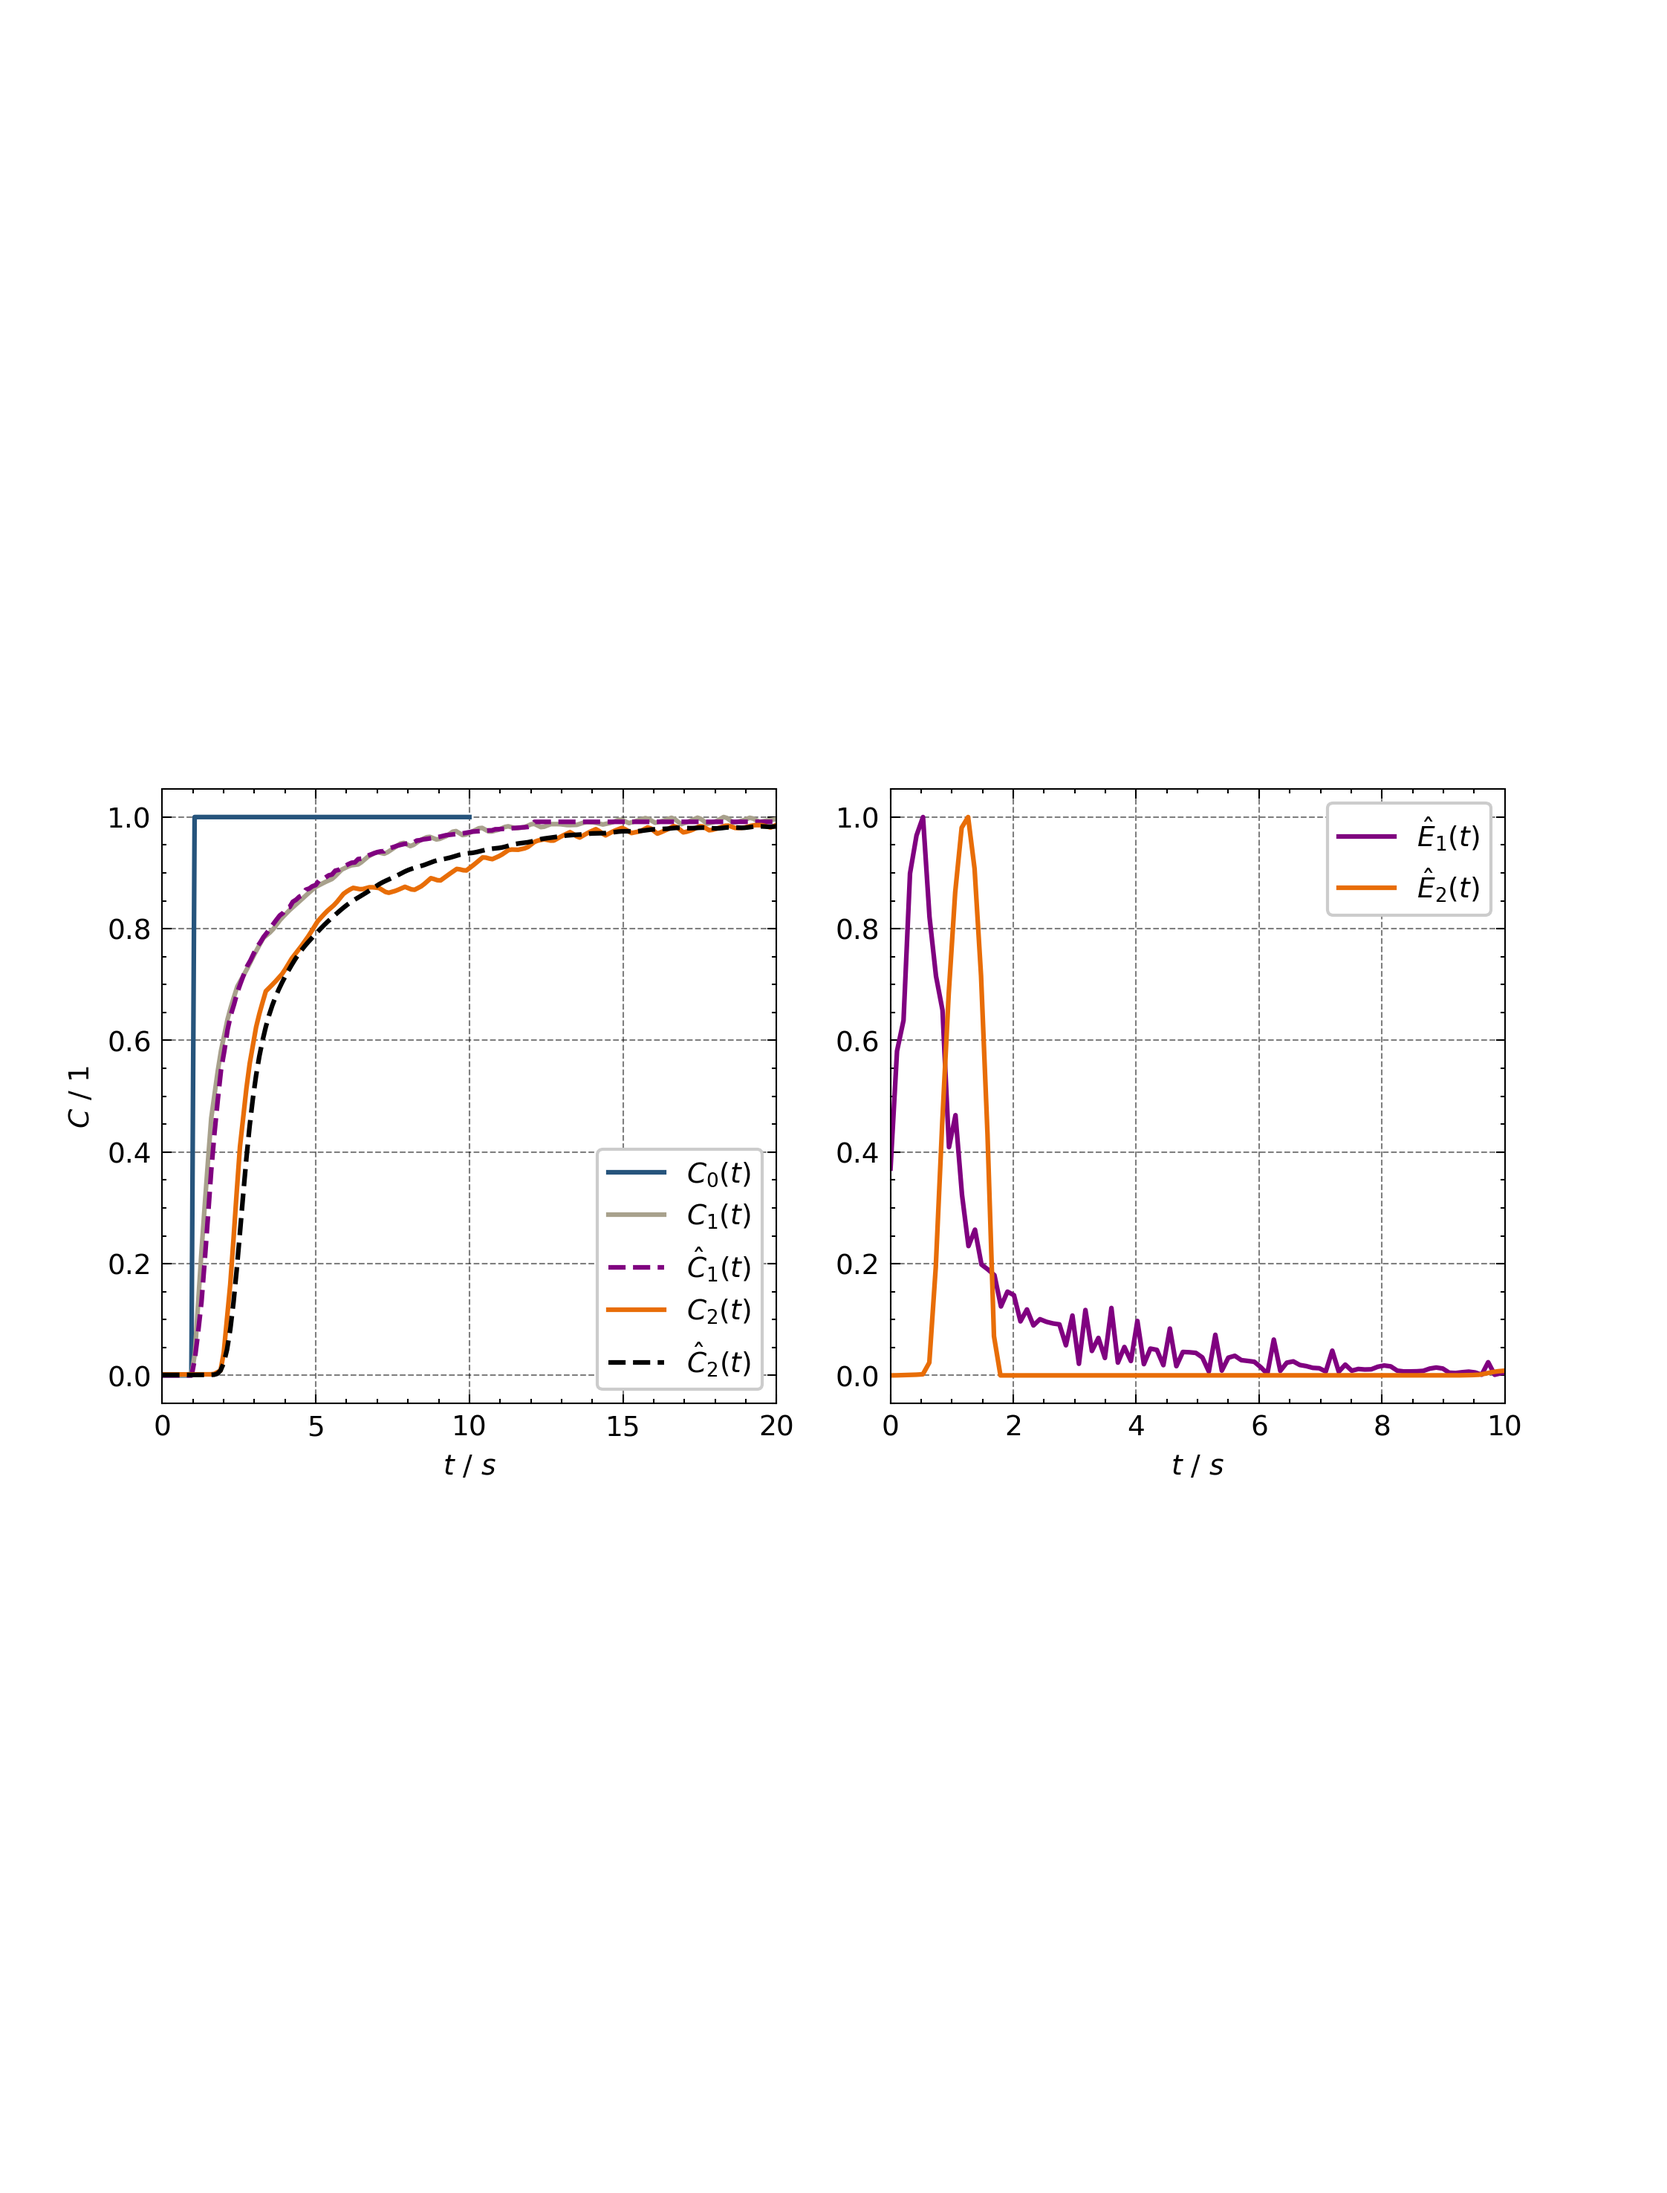
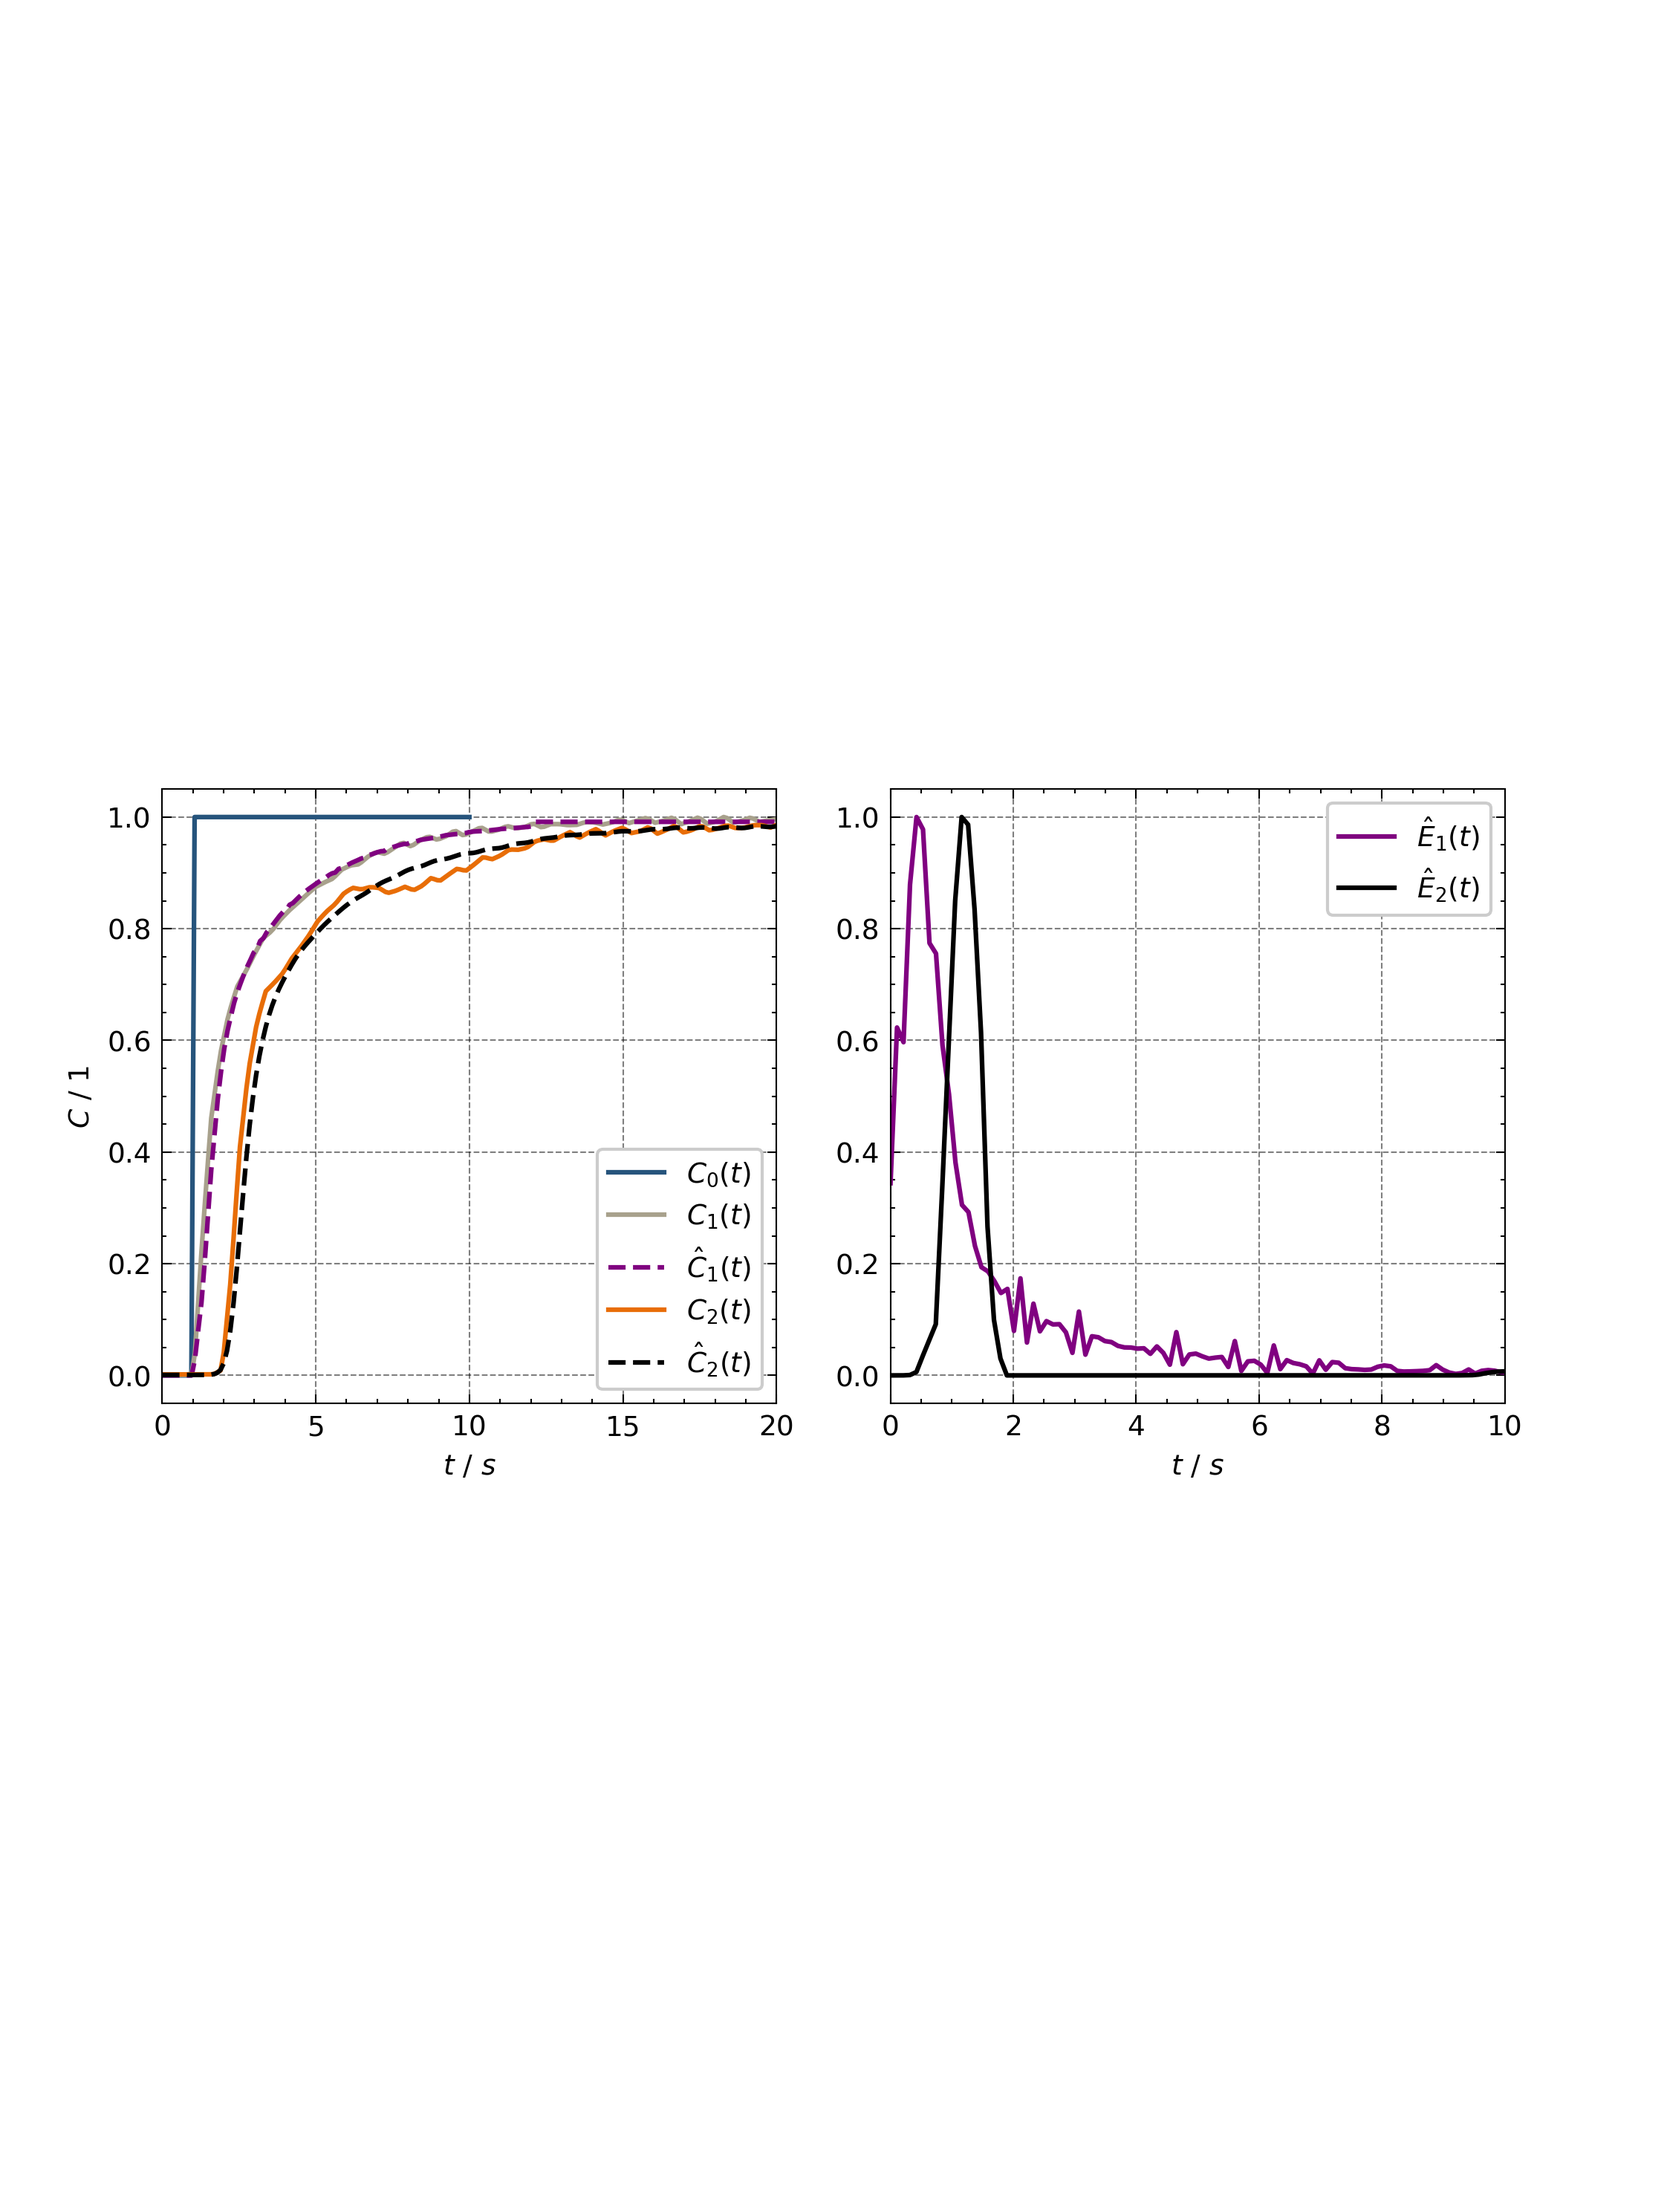
plots

diff --git a/Experiments/Preliminary/2_nd_Layer_exp/0001/H_185/Convolution_script_exp_185.py b/Experiments/Preliminary/2_nd_Layer_exp/0001/H_185/Convolution_script_exp_185.py
@@ -2,7 +2,6 @@ import matplotlib.pyplot as plt
 import numpy.typing as npt
 import sys
 import os
-
 module_path = r"D:\Tuana\nRTD\lib"
 sys.path.append(module_path)
 import torch
@@ -24,8 +23,9 @@ from ICIW_Plots import make_square_ax, cm2inch
 if wandb.run is not None:
     wandb.finish()
     
-#save_dir=r"D:\Tuana\nRTD\Experiments\Preliminary\2_nd_Layer_exp\0001\H_185"
+save_dir=r"D:\Tuana\nRTD\Experiments\Preliminary\2_nd_Layer_exp\0001\H_185"
 learning_rate=1e-3
+learning_rate_2=1e-1
 n_in_1, n_out_1, n_out_2, n_e_1, n_e_2 = sp.symbols("n_in_1 n_out_1 n_out_2 n_e_1 n_e_2", positive=True, real=True)
 t_1, t_lam, t_adl, t_e_1, t_e_2 = sp.symbols("t_1, t_lam, t_adl, t_e_1, t_e_2", positive=True, real=True)
 equations = [
@@ -109,20 +109,22 @@ print("t_e_2 =", t_e_2)
 c_conv_results = {}
 n_disc = n_in_1
 t_input = torch.linspace(0, t_1, n_1_in)
-c_in = torch.zeros((20, 1, n_1_in))
-c_in[::2, :, t_input > 1] = 0.025
-c_in[1::2, :, t_input < 1] = 0.025
-file_numbers = range(1, 21)
+c_in = torch.zeros((18, 1, n_1_in))
+c_in[::2, :, t_input > 1] =1
+c_in[1::2, :, t_input < 1] =1
 c_out_list = []
 t_conv_list = []
+file_numbers = range(1, 21)
+excluded_files = {19,20}
+filtered_file_numbers = [num for num in file_numbers if num not in excluded_files]
 
 
-for i, file_num in enumerate(file_numbers):
+for i, file_num in enumerate(filtered_file_numbers):
     #t_conv_path = f"/Users/tuanaoyuncu/Documents/GitHub/nRTD/Data/0001/C_001/H_185_C1/S_007_C1_001/TOA_MGA_20231013_007_{file_num:06d}_t_processed.npy"
     #c_out_path = f"/Users/tuanaoyuncu/Documents/GitHub/nRTD/Data/0001/C_001/H_185_C1/S_007_C1_001/TOA_MGA_20231013_007_{file_num:06d}_x_processed.npy"
-    t_conv_path= r"D:\Tuana\nRTD\Data\0001\C_001\H_185_C1\S_007_C1_001\TOA_MGA_20231013_007_{file_num:06d}_t_processed.npy"
-    c_out_path =r"D:\Tuana\nRT\Data\0001\C_001\H_185_C1\S_007_C1_001\TOA_MGA_20231013_007_{file_num:06d}_x_processed.npy"
-    
+    t_conv_path= rf"D:\Tuana\nRTD\Data\0001\C_001\H_185_C1\S_007_C1\TOA_MGA_20231013_007_{file_num:06d}_t_processed_norm_1.npy"
+    c_out_path = rf"D:\Tuana\nRTD\Data\0001\C_001\H_185_C1\S_007_C1\TOA_MGA_20231013_007_{file_num:06d}_x_processed_norm_1.npy"
+
     print(f"Processing files: {t_conv_path}, {c_out_path}")
 
     t_conv = (
@@ -174,8 +176,6 @@ plt.plot(
 )
 plt.plot(t_E, E, label="E", color="orange")
 plt.legend()
-plt.xlim((0, 10))
-plt.ylim((0, 0.2))
 plt.show()
 
 print(model(c_in).size())
@@ -188,7 +188,7 @@ wandb_logger = pl_loggers.WandbLogger(
 
 trainer = pl.Trainer(
     accelerator="auto",
-    max_epochs=20000,
+    max_epochs=8000,
     logger=wandb_logger, deterministic=True
 )
 trainer.fit(model, dl)
@@ -237,11 +237,11 @@ t_2_in=torch.tensor(t_conv).float()
 c_2_in=torch.tensor(c_out).float()
 print("c_in",c_out.shape)
 
-for i, file_num in enumerate(file_numbers):
-    t_conv_path_2 = f"/Users/tuanaoyuncu/Documents/GitHub/nRTD/Data/0001/C_002/H_185_C2/S_014_C2/TOA_MGA_20231020_014_{file_num:06d}_t_processed.npy"
-    c_out_path_2 = f"/Users/tuanaoyuncu/Documents/GitHub/nRTD/Data/0001/C_002/H_185_C2/S_014_C2/TOA_MGA_20231020_014_{file_num:06d}_x_processed.npy"
-    # t_conv_path_2= r"D:\Tuana\nRTD\Experiments\Data\0001\C_002\H_185_C2\S_014_C2\TOA_MGA_20231020_014_{file_num:06d}_t_processed.npy"
-    # c_out_path_2 =r"D:\Tuana\nRTD\Experiments\Data\0001\C_002\H_185_C2\S_014_C2\TOA_MGA_20231020_014_{file_num:06d}_x_processed.npy"
+for i, file_num in enumerate(filtered_file_numbers):
+    #t_conv_path_2 = f"/Users/tuanaoyuncu/Documents/GitHub/nRTD/Data/0001/C_002/H_185_C2/S_014_C2/TOA_MGA_20231020_014_{file_num:06d}_t_processed.npy"
+    #c_out_path_2 = f"/Users/tuanaoyuncu/Documents/GitHub/nRTD/Data/0001/C_002/H_185_C2/S_014_C2/TOA_MGA_20231020_014_{file_num:06d}_x_processed.npy"
+    t_conv_path_2= rf"D:\Tuana\nRTD\Data\0001\C_002\H_185_C2\S_014_C2\TOA_MGA_20231020_014_{file_num:06d}_t_processed_norm.npy"
+    c_out_path_2 =rf"D:\Tuana\nRTD\Data\0001\C_002\H_185_C2\S_014_C2\TOA_MGA_20231020_014_{file_num:06d}_x_processed_norm.npy"
     
     print(f"Processing files: {t_conv_path_2}, {c_out_path_2}")
 
@@ -264,7 +264,7 @@ print(c_2_in.shape)
 model_2 = RTDModule(
     kernel_sizes=[n_e_2],
     kernel_times=[(0.0, t_e_2)],
-    learning_rate=learning_rate,
+    learning_rate=learning_rate_2,
     use_scheduler=True,
     scheduler_kwargs={"factor": 0.5, "patience": 80},
 )
@@ -276,7 +276,7 @@ dl_2 = DataLoader(ds_2, batch_size=1, shuffle=True)
 
 trainer = pl.Trainer(
     accelerator="auto",
-    max_epochs=100000,
+    max_epochs=30000,
     logger=wandb_logger,
     deterministic=True,
 )
@@ -325,6 +325,132 @@ current_date = datetime.datetime.now().strftime("%Y%m%d")
 #plt.savefig(os.path.join(save_dir,f"Figure_C_002_H_185_C2{current_date}.png"), dpi=300)
 current_date = datetime.datetime.now().strftime("%Y%m%d")
 #plt.savefig(os.path.join(save_dir,f"Figure_C_002_H_185_C2{current_date}.png"), dpi=300)
+plt.show()
+plt.show()
+
+E_learned_1 = model.net.E[0] if isinstance(model.net.E[0], np.ndarray) else model.net.E[0].numpy()
+E_learned_2 = model_2.net.E[0] if isinstance(model_2.net.E[0], np.ndarray) else model_2.net.E[0].numpy()
+t_learned_1 = np.linspace(0, t_e, len(E_learned_1))
+t_learned_2 = np.linspace(0, t_e_2, len(E_learned_2))
+base_dir = r'D:\Tuana\nRTD\Experiments\Preliminary\2_nd_Layer_exp'
+#base_dir="/Users/tuanaoyuncu/Documents/GitHub/nRTD/Experiments/Preliminary/2_nd_Layer_exp"
+plt.style.use("ICIWstyle")
+import ICIW_Plots.colors as ICIWcolors
+from ICIW_Plots.figures import Elsevier_Sizes
+import datetime
+import ICIW_Plots.colors as ICIWcolors
+from ICIW_Plots.figures import Elsevier_Sizes, ACS_Sizes
+from ICIW_Plots import make_square_ax, cm2inch
+from ICIW_Plots import make_rect_ax
+from ICIW_Plots import make_square_subplots
+fig = plt.figure( figsize=(Elsevier_Sizes.double_column["in"], 25 * cm2inch))  # Increased figure height for better spacing
+axs = make_square_subplots(
+    fig=fig,
+    ax_width=7 * cm2inch,#dimension of the plots
+    ax_layout=(1, 2),  
+    h_sep=1.3 * cm2inch,  
+    v_sep=1 * cm2inch, 
+    sharex=True,
+    sharey=True,
+    xlabel=[r"$t$ / $s$", r"$t$ / $s$"], 
+    ylabel=
+        [r"$C$ / $1$"
+    ])
+
+axs[0, 0].plot(t_input, c_in[0, 0, :].numpy(), label=r"$C_0(t)$", color=ICIWcolors.CERULEAN)
+
+for i in range(c_out.size(1)):
+    axs[0, 0].plot(
+    t_conv[4, i, :].numpy(),
+    c_out[4, i, :].numpy(),
+    label=r"$C_1(t)$",
+    color=ICIWcolors.DRAB,
+)
+
+# for i in range(c_out.size(1)):
+#     axs[0, 0].plot(
+#         t_conv_2[0, i, :].numpy(),
+#         c_out_2[0, i, :].numpy(),
+#         label=f"Exp_{file_numbers[i]}",
+#         color="green",
+#     )
+
+
+axs[0, 0].plot(
+    t_conv[0, 0, :].numpy(),
+    c_conv[0, 0, :].detach().numpy(),
+    label=r"$\hat{C}_1(t)$",
+   color="purple",
+    linestyle="--"
+)
+
+axs[0, 0].plot(
+    t_conv_2[4, i, :].numpy(),
+    c_out_2[4, i, :].detach().numpy(),
+    label=r"$C_2(t)$",
+   color=ICIWcolors.FLAME,
+)
+axs[0, 0].plot(
+    t_conv_2[0, 0, :].numpy(),
+    c_conv_2[0, 0, :].detach().numpy(),
+    label=r"$\hat{C}_2(t)$",
+   color="black",
+    linestyle="--"
+)
+
+axs[0, 1].plot(
+    t_learned_1,  # Ensure this is also 1D
+    E_learned_1/E_learned_1.max(), label=r"$\hat{E}_1(t)$", color="purple",
+)
+axs[0, 1].plot(
+    t_learned_2,  # Ensure this is also 1D
+    E_learned_2/E_learned_2.max(),label=r"$\hat{E}_2(t)$", color="black"
+)
+
+####
+axs[0, 0].set_xlim((0, 20)) 
+axs[0, 1].set_xlim((0, 10)) 
+axs[0, 0].legend(loc="best")
+axs[0, 1].legend(loc="best")
+plt.savefig(os.path.join(base_dir, f"Exp_2ndLAyer_185_rtd2.png"), dpi=300)
+plt.show()
+
+
+
+
+
+fig, ax1 = plt.subplots(1, 1, sharex=True, figsize=(10, 8))
+plt.plot(
+    t_conv[0, 0, :].numpy(),
+    c_conv[0, 0, :].detach().numpy(),
+    label="Input",
+    color="orange",
+)
+for i in range(c_out.size(1)):
+    plt.plot(
+        t_conv_2[0, i, :].numpy(),
+        c_out_2[0, i, :].numpy(),
+        label=f"Exp_{file_numbers[i]}",
+        color="green",
+    )
+
+plt.plot(
+    t_conv_2[0, 0, :].numpy(),
+    c_conv_2[0, 0, :].detach().numpy(),
+    label="Predicted_2",
+    color="red",
+)
+ax1.plot(t_E_2, E_2, label="E_predict", color="purple", linestyle="--")
+print(t_E_2.shape)
+print(E_2.shape)
+
+
+ax1.set_ylabel('Concentration')
+ax1.set_xlabel('Time')
+#current_date = datetime.datetime.now().strftime("%Y%m%d")
+#plt.savefig(os.path.join(save_dir,f"Figure_C_002_H_135_C2{current_date}.png"), dpi=300)
+#current_date = datetime.datetime.now().strftime("%Y%m%d")
+plt.savefig(os.path.join(save_dir,"Figure_C_002_H_185_C2.png"), dpi=300)
 plt.show()
 plt.show()
 

diff --git a/Experiments/Preliminary/2_nd_Layer_exp/0001/H_135/Convolution_script_exp_135.py b/Experiments/Preliminary/2_nd_Layer_exp/0001/H_135/Convolution_script_exp_135.py
@@ -238,8 +238,8 @@ print("c_in",c_out.shape)
 for i, file_num in enumerate(file_numbers):
     #t_conv_path_2 = f"/Users/tuanaoyuncu/Documents/GitHub/nRTD/Data/0001/C_002/H_135_C2/S_013_C2/TOA_MGA_20231020_013_{file_num:06d}_t_processed_conc.npy"
     #c_out_path_2 = f"/Users/tuanaoyuncu/Documents/GitHub/nRTD/Data/0001/C_002/H_135_C2/S_013_C2/TOA_MGA_20231020_013_{file_num:06d}_x_processed_conc.npy"
-    t_conv_path_2= rf"D:\Tuana\nRTD\Data\0001\C_002\H_135_C2\S_013_C2\TOA_MGA_20231020_013_{file_num:06d}_t_processed_conc_norm.npy"
-    c_out_path_2 =rf"D:\Tuana\nRTD\Data\0001\C_002\H_135_C2\S_013_C2\TOA_MGA_20231020_013_{file_num:06d}_x_processed_conc_norm.npy"
+    t_conv_path_2= rf"D:\Tuana\nRTD\Data\0001\C_002\H_135_C2\S_013_C2\TOA_MGA_20231020_013_{file_num:06d}_t_processed_conc_norm_1.npy"
+    c_out_path_2 =rf"D:\Tuana\nRTD\Data\0001\C_002\H_135_C2\S_013_C2\TOA_MGA_20231020_013_{file_num:06d}_x_processed_conc_norm_1.npy"
     
     print(f"Processing files: {t_conv_path_2}, {c_out_path_2}")
 
@@ -361,23 +361,19 @@ axs[0, 0].plot(
 
 axs[0, 1].plot(
     t_learned_1,  # Ensure this is also 1D
-    E_learned_1/E_learned_1.max(), label=r"$\hat{E}_1(t)$", color=ICIWcolors.DRAB,
+    E_learned_1/E_learned_1.max(), label=r"$\hat{E}_1(t)$", color="purple",
 )
 axs[0, 1].plot(
     t_learned_2,  # Ensure this is also 1D
-    E_learned_2/E_learned_2.max(),label=r"$\hat{E}_2(t)$", color=ICIWcolors.FLAME
+    E_learned_2/E_learned_2.max(),label=r"$\hat{E}_2(t)$", color="black"
 )
 
-
-
 ####
-
-
 axs[0, 0].set_xlim((0, 20)) 
 axs[0, 1].set_xlim((0, 10)) 
 axs[0, 0].legend(loc="best")
 axs[0, 1].legend(loc="best")
-#plt.savefig(os.path.join(base_dir, f"Exp_2ndLAyer_135_rtd2.png"), dpi=300)
+plt.savefig(os.path.join(base_dir, f"Exp_2ndLAyer_135_rtd2.png"), dpi=300)
 plt.show()
 
 
@@ -415,7 +411,7 @@ ax1.set_xlabel('Time')
 current_date = datetime.datetime.now().strftime("%Y%m%d")
 #plt.savefig(os.path.join(save_dir,f"Figure_C_002_H_135_C2{current_date}.png"), dpi=300)
 current_date = datetime.datetime.now().strftime("%Y%m%d")
-#plt.savefig(os.path.join(save_dir,f"Figure_C_002_H_135_C2{current_date}.png"), dpi=300)
+plt.savefig(os.path.join(base_dir,f"Figure_C_002_H_135_C2{current_date}.png"), dpi=300)
 plt.show()
 plt.show()
 

diff --git a/Experiments/Preliminary/2_nd_Layer_exp/0001/H_085/Convolution_script_exp_085.py b/Experiments/Preliminary/2_nd_Layer_exp/0001/H_085/Convolution_script_exp_085.py
@@ -133,8 +133,8 @@ filtered_file_numbers = [num for num in file_numbers if num not in excluded_file
 for i, file_num in enumerate(filtered_file_numbers):
     # t_conv_path = f"/Users/tuanaoyuncu/Documents/GitHub/nRTD/Data/0001/C_001/H_085_C1/S_009_C1/TOA_MGA_20231020_009_{file_num:06d}_t_processed_2nlayer_conc.npy"
     # c_out_path = f"/Users/tuanaoyuncu/Documents/GitHub/nRTD/Data/0001/C_001/H_085_C1/S_009_C1/TOA_MGA_20231020_009_{file_num:06d}_x_processed_2nlayer_conc.npy"
-    t_conv_path= rf"D:\Tuana\nRTD\Data\0001\C_001\H_085_C1\S_009_C1\TOA_MGA_20231020_009_{file_num:06d}_t_processed_2nlayer_conc_norm.npy"
-    c_out_path =rf"D:\Tuana\nRTD\Data\0001\C_001\H_085_C1\S_009_C1\TOA_MGA_20231020_009_{file_num:06d}_x_processed_2nlayer_conc_norm.npy"
+    t_conv_path= rf"D:\Tuana\nRTD\Data\0001\C_001\H_085_C1\S_009_C1\TOA_MGA_20231020_009_{file_num:06d}_t_processed_2nlayer_conc.npy"
+    c_out_path =rf"D:\Tuana\nRTD\Data\0001\C_001\H_085_C1\S_009_C1\TOA_MGA_20231020_009_{file_num:06d}_x_processed_2nlayer_conc.npy"
     
     print(f"Processing files: {t_conv_path}, {c_out_path}")
 
@@ -431,7 +431,7 @@ axs[0, 1].plot(
 )
 axs[0, 1].plot(
     t_learned_2,  # Ensure this is also 1D
-    E_learned_2/E_learned_2.max(),label=r"$\hat{E}_2(t)$", color=ICIWcolors.FLAME
+    E_learned_2/E_learned_2.max(),label=r"$\hat{E}_2(t)$", color="black"
 )
 
 
